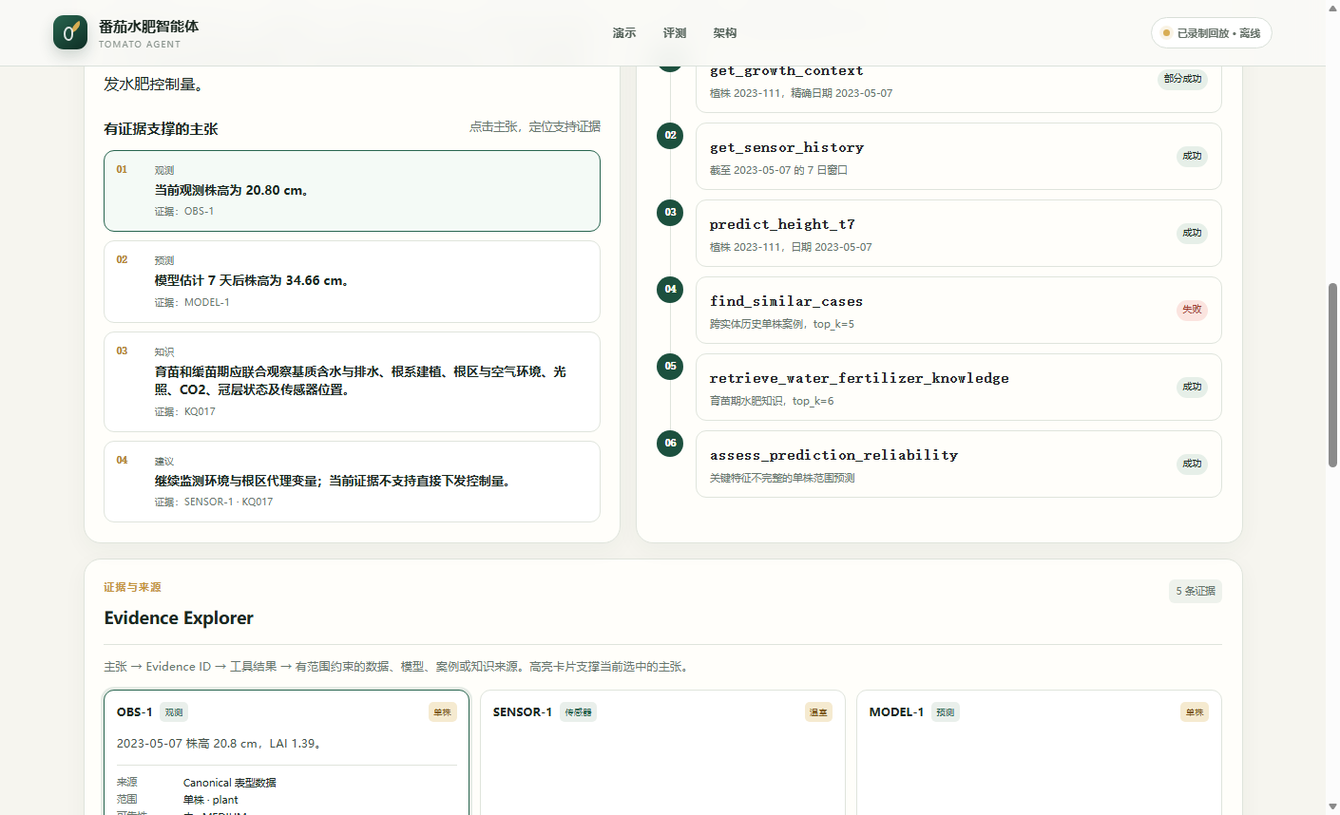
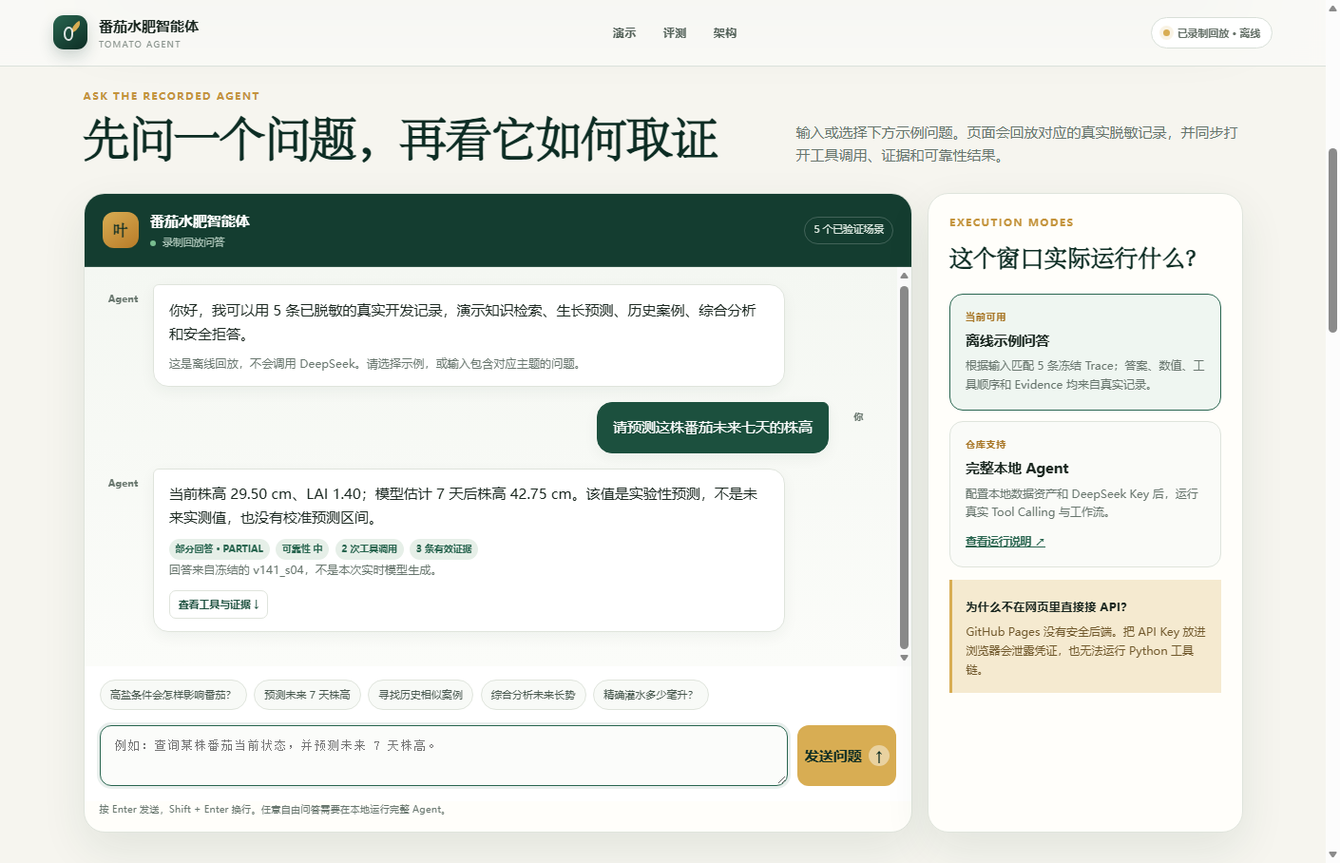
Add interactive recorded-replay Q&A workbench

diff --git a/demo/styles.css b/demo/styles.css
@@ -5,8 +5,10 @@
   --line:#dfe4dc;--shadow:0 18px 48px rgba(20,61,48,.09);--radius:18px
 }
 *{box-sizing:border-box}html{scroll-behavior:smooth}body{margin:0;background:var(--paper);color:var(--ink);font:15px/1.65 "Segoe UI Variable","HarmonyOS Sans SC","Microsoft YaHei",system-ui,sans-serif;-webkit-font-smoothing:antialiased}button,a,summary{font:inherit}button{color:inherit}.skip-link{position:fixed;left:1rem;top:-5rem;background:#fff;padding:.65rem 1rem;z-index:100}.skip-link:focus{top:1rem}
+.sr-only{position:absolute;width:1px;height:1px;padding:0;margin:-1px;overflow:hidden;clip:rect(0,0,0,0);white-space:nowrap;border:0}
 .site-header{height:70px;display:flex;align-items:center;justify-content:space-between;gap:2rem;padding:0 max(4vw,1.4rem);position:sticky;top:0;z-index:30;border-bottom:1px solid rgba(211,220,213,.82);background:rgba(250,250,246,.9);backdrop-filter:blur(16px)}.brand{display:flex;align-items:center;gap:.72rem;color:var(--ink);text-decoration:none}.brand>span:last-child{display:flex;flex-direction:column}.brand strong{font-size:.94rem}.brand small{color:#89938d;font-size:.57rem;letter-spacing:.13em}.brand-mark{position:relative;width:36px;height:36px;border-radius:11px;background:linear-gradient(145deg,var(--forest-700),var(--forest-950));box-shadow:0 7px 16px rgba(20,61,48,.2)}.brand-mark:before{content:"";position:absolute;width:12px;height:8px;left:18px;top:8px;border-radius:100% 0;background:var(--gold);transform:rotate(-28deg)}.brand-mark i{position:absolute;width:10px;height:15px;left:11px;top:12px;border:2px solid rgba(255,255,255,.85);border-radius:55% 45% 48% 52%}.top-nav{display:flex;gap:.25rem}.top-nav a{padding:.45rem .75rem;color:#536159;text-decoration:none;font-size:.78rem;font-weight:700;border-radius:8px}.top-nav a:hover{color:var(--forest-800);background:var(--sage-100)}.mode-badge{display:flex;align-items:center;gap:.5rem;padding:.42rem .72rem;border:1px solid #d8dfd8;border-radius:999px;background:#fff;color:#667269;font-size:.68rem;font-weight:800}.mode-dot{width:7px;height:7px;border-radius:50%;background:var(--gold);box-shadow:0 0 0 4px rgba(216,173,83,.15)}
 .hero{width:min(1220px,calc(100% - 2.5rem));min-height:500px;margin:2rem auto 0;padding:clamp(2.5rem,5vw,4.7rem);display:grid;grid-template-columns:minmax(0,1.2fr) minmax(330px,.8fr);gap:clamp(2rem,7vw,6rem);align-items:center;position:relative;overflow:hidden;border-radius:28px;background:linear-gradient(125deg,var(--forest-950),#194938 65%,#466b5b);color:#fff;box-shadow:0 28px 65px rgba(13,45,36,.17)}.hero:after{content:"";position:absolute;width:430px;height:430px;right:22%;bottom:-390px;border:1px solid rgba(255,255,255,.1);border-radius:50%;box-shadow:0 0 0 70px rgba(255,255,255,.025),0 0 0 140px rgba(255,255,255,.018)}.hero-copy,.hero-metrics{position:relative;z-index:1}.eyebrow,.micro-label{margin:0 0 .55rem;color:#c4943d;font-size:.66rem;font-weight:850;letter-spacing:.16em}.hero .eyebrow{color:var(--gold)}.hero h1{margin:.7rem 0 1.2rem;font-family:"STSong","Songti SC",Georgia,serif;font-size:clamp(3.4rem,6.4vw,6rem);font-weight:600;line-height:.98;letter-spacing:-.055em}.hero h1 em{color:var(--gold);font-style:normal}.hero-lead{max-width:690px;margin:0;color:#c9dad0;font-size:1.05rem;line-height:1.82}.hero-actions{display:flex;gap:.75rem;flex-wrap:wrap;margin-top:1.8rem}.button{display:inline-flex;align-items:center;justify-content:center;gap:.65rem;min-height:44px;padding:.62rem 1.05rem;border-radius:999px;text-decoration:none;font-size:.8rem;font-weight:800}.button.primary{background:var(--gold);color:var(--forest-950)}.button.secondary{border:1px solid rgba(255,255,255,.28);color:#eef5f0}.hero-disclosure{max-width:690px;margin:1.25rem 0 0;color:#9fb8aa;font-size:.78rem}.hero-metrics{display:grid;grid-template-columns:1fr 1fr;gap:.8rem}.hero-metrics article{min-height:126px;padding:1.25rem;border:1px solid rgba(255,255,255,.14);border-radius:16px;background:rgba(255,255,255,.08);backdrop-filter:blur(9px)}.hero-metrics span,.hero-metrics small{display:block;color:#abc2b5;font-size:.69rem}.hero-metrics strong{display:block;margin:.5rem 0 .25rem;font-size:1.75rem}.hero-metrics .status-text{font-size:.82rem;line-height:1.5;letter-spacing:.025em;margin-top:.9rem}
+.qa-section{width:min(1220px,calc(100% - 2.5rem));margin:6rem auto}.qa-workbench{display:grid;grid-template-columns:minmax(0,1.45fr) minmax(280px,.55fr);gap:1rem;align-items:stretch}.chat-shell,.mode-panel{border:1px solid var(--line);border-radius:22px;background:var(--surface);box-shadow:var(--shadow)}.chat-shell{overflow:hidden}.chat-header{display:flex;align-items:center;justify-content:space-between;gap:1rem;padding:1rem 1.2rem;border-bottom:1px solid rgba(255,255,255,.13);background:var(--forest-900);color:#fff}.chat-header>div{display:flex;align-items:center;gap:.75rem}.chat-header strong,.chat-header small{display:block}.chat-header small{margin-top:.08rem;color:#a9c2b5;font-size:.68rem}.chat-header small i{display:inline-block;width:6px;height:6px;margin-right:.25rem;border-radius:50%;background:#78bd8f}.agent-avatar{width:38px;height:38px;display:grid;place-items:center;border-radius:12px;background:linear-gradient(145deg,var(--gold),#b87b28);color:var(--forest-950);font:700 1rem/1 "STSong","Songti SC",serif}.chat-scope{padding:.3rem .58rem;border:1px solid rgba(255,255,255,.2);border-radius:999px;color:#d9e5dd;font-size:.67rem}.chat-messages{min-height:255px;max-height:420px;overflow:auto;padding:1.25rem;background:linear-gradient(180deg,#f4f7f2,#fbfcf9)}.message{display:flex;gap:.65rem;max-width:88%;margin-bottom:1rem}.message.user-message{margin-left:auto;flex-direction:row-reverse}.message-role{flex:0 0 auto;width:42px;padding-top:.45rem;color:var(--muted);font-size:.64rem;font-weight:800;text-align:center}.message>div{padding:.85rem 1rem;border:1px solid var(--line);border-radius:6px 16px 16px 16px;background:#fff;box-shadow:0 5px 16px rgba(20,61,48,.05)}.message.user-message>div{border-color:var(--forest-800);border-radius:16px 6px 16px 16px;background:var(--forest-800);color:#fff}.message p{margin:0}.message p+p{margin-top:.55rem}.message-note{color:var(--muted);font-size:.76rem}.message-result-meta{display:flex;gap:.4rem;flex-wrap:wrap;margin-top:.65rem}.message-result-meta span{padding:.18rem .42rem;border-radius:999px;background:var(--sage-100);color:var(--forest-700);font-size:.62rem;font-weight:750}.message-actions{display:flex;gap:.5rem;margin-top:.7rem}.message-actions button{padding:.32rem .55rem;border:1px solid var(--line);border-radius:7px;background:#fff;color:var(--forest-800);font-size:.68rem;font-weight:750;cursor:pointer}.prompt-chips{display:flex;gap:.45rem;overflow:auto;padding:.85rem 1rem .25rem;background:#fff}.prompt-chips button{flex:0 0 auto;padding:.38rem .65rem;border:1px solid var(--line);border-radius:999px;background:#f8faf7;color:#47584e;font-size:.69rem;cursor:pointer}.prompt-chips button:hover{border-color:var(--forest-700);color:var(--forest-800)}.question-form{display:grid;grid-template-columns:1fr auto;gap:.65rem;padding:.75rem 1rem 1rem;background:#fff}.question-form textarea{width:100%;min-height:64px;resize:vertical;padding:.78rem .9rem;border:1px solid #cfd8d1;border-radius:12px;background:#fbfcfa;color:var(--ink);outline:none}.question-form textarea:focus{border-color:var(--forest-700);box-shadow:0 0 0 3px rgba(40,101,79,.1)}.question-form button{align-self:stretch;min-width:104px;display:flex;align-items:center;justify-content:center;gap:.45rem;border:0;border-radius:12px;background:var(--gold);color:var(--forest-950);font-weight:850;cursor:pointer}.question-form button b{width:22px;height:22px;display:grid;place-items:center;border-radius:50%;background:rgba(255,255,255,.45)}.question-hint{margin:0;padding:0 1rem .9rem;color:var(--muted);font-size:.65rem}.mode-panel{padding:1.35rem}.mode-panel h3{margin:.2rem 0 1rem;font-family:"STSong","Songti SC",Georgia,serif;font-size:1.55rem;color:var(--forest-950)}.mode-card{margin-top:.7rem;padding:1rem;border:1px solid var(--line);border-radius:14px;background:#fafbf8}.mode-card.active{border-color:var(--forest-700);background:#eff6f1}.mode-card span,.mode-card strong{display:block}.mode-card span{color:#a87727;font-size:.62rem;font-weight:850;letter-spacing:.08em}.mode-card strong{margin:.2rem 0;font-size:.92rem}.mode-card p,.mode-warning p{margin:.35rem 0 0;color:var(--muted);font-size:.75rem}.mode-card a{display:inline-block;margin-top:.65rem;color:var(--forest-700);font-size:.72rem;font-weight:800}.mode-warning{margin-top:.8rem;padding:.9rem;border-left:3px solid var(--gold);background:var(--gold-soft)}.mode-warning strong{font-size:.78rem}.mode-warning p{color:#70582b}
 .section-shell,.architecture-section,.benchmark-section{width:min(1220px,calc(100% - 2.5rem));margin:6rem auto}.section-heading{display:flex;align-items:end;justify-content:space-between;gap:3rem;margin-bottom:1.7rem}.section-heading h2{margin:0;font-family:"STSong","Songti SC",Georgia,serif;font-size:clamp(2rem,3.5vw,3.15rem);font-weight:600;line-height:1.15;letter-spacing:-.035em;color:var(--forest-950)}.section-heading>p{max-width:470px;margin:0;color:var(--muted)}
 .scenario-tabs{display:grid;grid-template-columns:repeat(5,1fr);gap:.65rem;margin-bottom:1rem}.scenario-tabs button{appearance:none;min-height:98px;padding:.9rem;text-align:left;display:flex;gap:.65rem;border:1px solid var(--line);border-radius:14px;background:var(--surface);cursor:pointer;transition:.2s}.scenario-tabs button:hover{transform:translateY(-2px);box-shadow:0 10px 26px rgba(20,61,48,.08)}.scenario-tabs button[aria-selected="true"]{border-color:var(--forest-700);box-shadow:inset 0 -3px var(--forest-700);background:#fbfdf9}.scenario-tabs strong,.scenario-tabs small{display:block}.scenario-tabs strong{font-size:.84rem;line-height:1.38}.scenario-tabs small{margin-top:.3rem;color:var(--muted);font-size:.7rem;line-height:1.35}.scenario-number{color:#b48836;font:800 .7rem/1 ui-monospace,monospace}.scenario-console{margin-bottom:1rem}.query-panel{display:flex;align-items:center;justify-content:space-between;gap:2rem;padding:1.25rem 1.4rem;border-radius:var(--radius) var(--radius) 0 0;background:var(--forest-900);color:#fff}.query-panel .micro-label{color:var(--gold)}.query-text{max-width:950px;margin:0;font-size:1.02rem}.icon-button{padding:.48rem .72rem;border:1px solid var(--line);border-radius:8px;background:#fff;color:var(--forest-800);font-size:.72rem;font-weight:750;cursor:pointer;white-space:nowrap}.icon-button.inverse{border-color:rgba(255,255,255,.25);background:transparent;color:#fff}.result-meta{display:grid;grid-template-columns:repeat(4,1fr);border:1px solid var(--line);border-top:0;border-radius:0 0 var(--radius) var(--radius);background:var(--surface)}.result-meta>div{padding:.9rem 1.1rem;border-right:1px solid var(--line)}.result-meta>div:last-child{border:0}.result-meta span{display:block;color:var(--muted);font-size:.65rem;letter-spacing:.06em}.result-meta strong{display:inline-block;margin-top:.28rem;font-size:.78rem}.status-chip,.reliability-chip{padding:.2rem .5rem;border-radius:999px;background:var(--sage-100);color:var(--forest-700)}.status-chip[data-status="PARTIAL"],.status-chip[data-status="ABSTAIN"],.reliability-chip[data-level="LOW"],.reliability-chip[data-level="UNKNOWN"]{background:var(--gold-soft);color:#855f1f}
 .workspace-grid{display:grid;grid-template-columns:.94fr 1.06fr;gap:1rem}.panel{margin-bottom:1rem;padding:1.3rem;border:1px solid var(--line);border-radius:var(--radius);background:var(--surface);box-shadow:0 7px 24px rgba(20,61,48,.045)}.panel-heading{display:flex;align-items:start;justify-content:space-between;gap:1rem;padding-bottom:.8rem;margin-bottom:.95rem;border-bottom:1px solid var(--line)}.panel-heading h3{margin:0;font-size:1.1rem}.meta-tag{padding:.24rem .46rem;border-radius:6px;background:#eef2ec;color:var(--muted);font-size:.66rem}.answer-summary{margin:0 0 1.25rem;font-size:1rem;line-height:1.8}.subheading{display:flex;justify-content:space-between;gap:1rem;margin-bottom:.6rem;font-weight:800}.subheading small{color:var(--muted);font-weight:500}.claim-list{display:grid;gap:.55rem}.claim-card{width:100%;display:grid;grid-template-columns:30px 1fr;gap:.65rem;padding:.75rem;text-align:left;border:1px solid var(--line);border-radius:11px;background:#fff;cursor:pointer}.claim-card:hover,.claim-card.selected{border-color:var(--forest-700);background:#f4faf6}.claim-index{color:#b48836;font:800 .68rem/1.4 ui-monospace,monospace}.claim-card small,.claim-card em{display:block;color:var(--muted);font-size:.65rem;font-style:normal}.claim-card strong{display:block;margin:.12rem 0 .3rem;font-size:.82rem;line-height:1.5}.panel-note{margin:-.2rem 0 .9rem;color:var(--muted);font-size:.77rem}.timeline{list-style:none;padding:0;margin:0}.timeline-item{display:grid;grid-template-columns:30px 1fr;gap:.7rem;position:relative;padding-bottom:.65rem}.timeline-item:not(:last-child):before{content:"";position:absolute;left:14px;top:28px;bottom:-1px;width:1px;background:var(--line)}.timeline-index{width:28px;height:28px;display:grid;place-items:center;z-index:1;border-radius:50%;background:var(--forest-800);color:#fff;font:800 .68rem/1 ui-monospace,monospace}.timeline details{overflow:hidden;border:1px solid var(--line);border-radius:11px}.timeline summary{list-style:none;display:flex;align-items:center;justify-content:space-between;gap:1rem;padding:.7rem .85rem;cursor:pointer}.timeline summary::-webkit-details-marker,.evidence-card summary::-webkit-details-marker{display:none}.timeline summary strong,.timeline summary small{display:block}.timeline summary small{margin-top:.16rem;color:var(--muted);font-size:.68rem}.tool-status{padding:.18rem .42rem;border-radius:999px;background:var(--sage-100);font-size:.62rem}.timeline-item[data-status="error"] .tool-status{background:#fbe4df;color:#9d392b}.tool-detail-grid{display:grid;grid-template-columns:repeat(2,1fr);gap:1px;border-top:1px solid var(--line);background:var(--line)}.tool-detail-grid>div{padding:.62rem .75rem;background:#fafbf8}.tool-detail-grid span,.tool-detail-grid strong{display:block}.tool-detail-grid span{color:var(--muted);font-size:.6rem}.tool-detail-grid strong{margin-top:.15rem;font-size:.68rem;word-break:break-word}.timeline-empty{display:flex;gap:.7rem}.timeline-empty>span{width:28px;height:28px;display:grid;place-items:center;border-radius:50%;background:var(--gold-soft);color:#855f1f;font-weight:800}.timeline-empty p{margin:.15rem 0;color:var(--muted)}
@@ -14,6 +16,7 @@
 .benchmark-section{padding:3rem;border:1px solid var(--line);border-radius:28px;background:var(--surface);box-shadow:var(--shadow)}.metric-grid{display:grid;grid-template-columns:repeat(4,1fr);gap:.7rem}.metric-grid article{padding:1rem;border-top:2px solid var(--gold);background:#fafbf8}.metric-grid span{display:block;color:var(--muted);font-size:.7rem}.metric-grid strong{display:block;margin-top:.25rem;color:var(--forest-900);font-size:1.75rem}.benchmark-detail{display:grid;grid-template-columns:repeat(4,1fr);margin-top:1rem;border:1px solid var(--line);border-radius:14px;overflow:hidden}.benchmark-detail>div{padding:1rem;border-right:1px solid var(--line)}.benchmark-detail>div:last-child{border:0}.benchmark-detail span,.benchmark-detail small{display:block;color:var(--muted);font-size:.68rem}.benchmark-detail strong{display:block;margin:.25rem 0;font-size:.9rem}.benchmark-warning{margin:1rem 0 0;padding:.85rem 1rem;border-left:3px solid var(--gold);background:var(--gold-soft);color:#70582b}
 .architecture-flow{display:flex;align-items:stretch;gap:.55rem}.architecture-flow i{align-self:center;color:#b48836;font-style:normal}.architecture-flow article{flex:1;padding:1rem;border:1px solid var(--line);border-radius:12px;background:var(--surface)}.architecture-flow article>span{display:block;color:#b48836;font:800 .65rem/1 ui-monospace,monospace}.architecture-flow strong,.architecture-flow small{display:block}.architecture-flow strong{margin:.45rem 0 .18rem}.architecture-flow small{color:var(--muted);font-size:.67rem}.architecture-flow .strong{background:var(--forest-900);color:#fff;border-color:var(--forest-900)}.architecture-flow .strong small{color:#b8cec1}.architecture-notes{display:grid;grid-template-columns:repeat(3,1fr);gap:1rem;margin-top:1.2rem}.architecture-notes article{padding-top:.8rem;border-top:2px solid var(--forest-700)}.architecture-notes p{margin:.4rem 0 0;color:var(--muted);font-size:.79rem}.site-footer{display:flex;justify-content:space-between;gap:2rem;padding:1.5rem max(4vw,1.4rem);border-top:1px solid var(--line);background:#ebece6;color:var(--muted);font-size:.74rem}.site-footer div{display:flex;gap:.55rem}.site-footer strong{color:var(--forest-900)}.toast{position:fixed;right:1rem;bottom:1rem;z-index:50;padding:.6rem .85rem;border-radius:8px;background:var(--forest-900);color:#fff;box-shadow:var(--shadow);opacity:0;transform:translateY(8px);pointer-events:none;transition:.2s}.toast.visible{opacity:1;transform:none}.fatal-error{width:min(680px,90vw);margin:5rem auto;padding:1.4rem;border-left:4px solid var(--tomato);background:#fff;box-shadow:var(--shadow)}button:focus-visible,a:focus-visible,summary:focus-visible{outline:3px solid rgba(40,101,79,.35);outline-offset:3px}
 .toast.show{opacity:1;transform:none}
-@media(max-width:980px){.hero{grid-template-columns:1fr}.hero-metrics{max-width:720px}.scenario-tabs{grid-template-columns:repeat(2,1fr)}.workspace-grid{grid-template-columns:1fr}.evidence-grid{grid-template-columns:repeat(2,1fr)}.architecture-flow{display:grid;grid-template-columns:1fr}.architecture-flow i{transform:rotate(90deg);justify-self:center}.benchmark-detail{grid-template-columns:repeat(2,1fr)}.benchmark-detail>div:nth-child(2){border-right:0}.benchmark-detail>div:nth-child(-n+2){border-bottom:1px solid var(--line)}}
-@media(max-width:640px){html,body{max-width:100%;overflow-x:hidden}.site-header{height:62px;padding:0 .8rem}.top-nav{display:none}.brand>span:last-child small{display:none}.mode-badge{font-size:.58rem;padding:.35rem .5rem}.hero{width:calc(100% - 1rem);min-height:auto;margin-top:.5rem;padding:3rem 1.25rem;border-radius:20px}.hero h1{font-size:3.25rem}.hero-lead{font-size:.96rem}.hero-metrics{grid-template-columns:1fr 1fr}.hero-metrics article{min-height:105px;padding:.9rem}.section-shell,.architecture-section,.benchmark-section{width:calc(100% - 1rem);margin:4rem auto}.section-heading{display:block}.section-heading>p{margin-top:.8rem}.scenario-tabs{display:flex;overflow:auto;scroll-snap-type:x mandatory;padding-bottom:.35rem}.scenario-tabs button{min-width:235px;scroll-snap-align:start}.query-panel{display:block}.query-panel .icon-button{margin-top:.8rem}.result-meta{grid-template-columns:repeat(2,1fr)}.result-meta>div:nth-child(2){border-right:0}.result-meta>div:nth-child(-n+2){border-bottom:1px solid var(--line)}.panel{padding:1rem}.subheading{display:block}.subheading small{display:block}.tool-detail-grid,.evidence-grid{grid-template-columns:1fr}.limitation-list{columns:1}.benchmark-section{padding:1.25rem}.metric-grid{grid-template-columns:repeat(2,1fr)}.benchmark-detail{grid-template-columns:1fr}.benchmark-detail>div{border-right:0;border-bottom:1px solid var(--line)}.benchmark-detail>div:last-child{border-bottom:0}.architecture-notes{grid-template-columns:1fr}.site-footer{display:block}.site-footer div{margin:.35rem 0;flex-wrap:wrap}}
+.qa-section,.section-shell{scroll-margin-top:90px}
+@media(max-width:980px){.hero{grid-template-columns:1fr}.hero-metrics{max-width:720px}.qa-workbench{grid-template-columns:1fr}.scenario-tabs{grid-template-columns:repeat(2,1fr)}.workspace-grid{grid-template-columns:1fr}.evidence-grid{grid-template-columns:repeat(2,1fr)}.architecture-flow{display:grid;grid-template-columns:1fr}.architecture-flow i{transform:rotate(90deg);justify-self:center}.benchmark-detail{grid-template-columns:repeat(2,1fr)}.benchmark-detail>div:nth-child(2){border-right:0}.benchmark-detail>div:nth-child(-n+2){border-bottom:1px solid var(--line)}}
+@media(max-width:640px){html,body{max-width:100%;overflow-x:hidden}.site-header{height:62px;padding:0 .8rem}.top-nav{display:none}.brand>span:last-child small{display:none}.mode-badge{font-size:.58rem;padding:.35rem .5rem}.hero{width:calc(100% - 1rem);min-height:auto;margin-top:.5rem;padding:3rem 1.25rem;border-radius:20px}.hero h1{font-size:3.25rem}.hero-lead{font-size:.96rem}.hero-metrics{grid-template-columns:1fr 1fr}.hero-metrics article{min-height:105px;padding:.9rem}.qa-section,.section-shell,.architecture-section,.benchmark-section{width:calc(100% - 1rem);margin:4rem auto}.section-heading{display:block}.section-heading>p{margin-top:.8rem}.chat-header{padding:.85rem}.chat-scope{display:none}.chat-messages{min-height:300px;padding:.85rem}.message{max-width:96%}.message-role{width:34px}.prompt-chips{padding-left:.75rem}.question-form{grid-template-columns:1fr;padding:.65rem .75rem}.question-form button{min-height:48px}.scenario-tabs{display:flex;overflow:auto;scroll-snap-type:x mandatory;padding-bottom:.35rem}.scenario-tabs button{min-width:235px;scroll-snap-align:start}.query-panel{display:block}.query-panel .icon-button{margin-top:.8rem}.result-meta{grid-template-columns:repeat(2,1fr)}.result-meta>div:nth-child(2){border-right:0}.result-meta>div:nth-child(-n+2){border-bottom:1px solid var(--line)}.panel{padding:1rem}.subheading{display:block}.subheading small{display:block}.tool-detail-grid,.evidence-grid{grid-template-columns:1fr}.limitation-list{columns:1}.benchmark-section{padding:1.25rem}.metric-grid{grid-template-columns:repeat(2,1fr)}.benchmark-detail{grid-template-columns:1fr}.benchmark-detail>div{border-right:0;border-bottom:1px solid var(--line)}.benchmark-detail>div:last-child{border-bottom:0}.architecture-notes{grid-template-columns:1fr}.site-footer{display:block}.site-footer div{margin:.35rem 0;flex-wrap:wrap}}
 @media(prefers-reduced-motion:reduce){html{scroll-behavior:auto}*,*:before,*:after{transition:none!important}}

diff --git a/demo/app.js b/demo/app.js
@@ -50,6 +50,15 @@ const scenarioDescriptions = {
 let scenarioIndex = null;
 let currentScenario = null;
 let selectedClaim = null;
+const scenarioCache = new Map();
+
+const promptExamples = [
+  { id: "knowledge_salt", label: "高盐条件会怎样影响番茄？" },
+  { id: "growth_prediction", label: "预测未来 7 天株高" },
+  { id: "historical_memory", label: "寻找历史相似案例" },
+  { id: "comprehensive", label: "综合分析未来长势" },
+  { id: "safety_refusal", label: "精确灌水多少毫升？" }
+];
 
 function localLabel(group, value) {
   return labels[group]?.[value] ?? value ?? "未记录";
@@ -61,6 +70,81 @@ function showToast(message) {
   toast.classList.add("show");
   window.clearTimeout(showToast.timer);
   showToast.timer = window.setTimeout(() => toast.classList.remove("show"), 1800);
+}
+
+function appendChatMessage(role, html) {
+  const root = $("#chat-messages");
+  const message = document.createElement("article");
+  message.className = `message ${role === "user" ? "user-message" : "assistant-message"}`;
+  message.innerHTML = `<span class="message-role">${role === "user" ? "你" : "Agent"}</span><div>${html}</div>`;
+  root.append(message);
+  root.scrollTo({ top: root.scrollHeight, behavior: "smooth" });
+  return message;
+}
+
+function matchScenario(query) {
+  const text = query.replaceAll(/\s+/g, "").toLowerCase();
+  if (/(毫升|精确灌水|精确灌溉|灌水多少|灌溉多少)/.test(text)) return "safety_refusal";
+  if (/(综合|当前状态.*环境|环境.*历史|未来长势)/.test(text)) return "comprehensive";
+  if (/(历史|相似案例|案例记忆|后来怎么样)/.test(text)) return "historical_memory";
+  if (/(高盐|盐害|盐胁迫|盐条件)/.test(text)) return "knowledge_salt";
+  if (/(预测|七天|7天|t\+7|未来.*株高)/.test(text)) return "growth_prediction";
+  return null;
+}
+
+function renderPromptChips() {
+  const root = $("#example-queries");
+  root.innerHTML = "";
+  promptExamples.forEach((prompt) => {
+    const button = document.createElement("button");
+    button.type = "button";
+    button.textContent = prompt.label;
+    button.addEventListener("click", async () => {
+      const scenario = await getScenario(prompt.id);
+      $("#question-input").value = scenario.query;
+      await runRecordedQuestion(scenario.query, prompt.id);
+    });
+    root.append(button);
+  });
+}
+
+async function runRecordedQuestion(query, forcedScenarioId = null) {
+  const cleaned = query.trim();
+  if (!cleaned) return;
+  appendChatMessage("user", `<p>${esc(cleaned)}</p>`);
+  $("#question-input").value = "";
+
+  const scenarioId = forcedScenarioId || matchScenario(cleaned);
+  if (!scenarioId) {
+    appendChatMessage("assistant", `
+      <p>这个问题不在公开页面携带的 5 条录制场景中，因此我不能在静态网页里生成一个看似实时、实际无依据的回答。</p>
+      <p class="message-note">请选择一个示例问题；如需任意自由问答，请按仓库说明在本地启动完整 Agent。</p>
+      <div class="message-result-meta"><span>未调用模型</span><span>未生成答案</span><span>安全边界</span></div>`);
+    return;
+  }
+
+  const submit = $("#question-submit");
+  submit.disabled = true;
+  try {
+    const scenario = await loadScenario(scenarioId);
+    const toolCount = scenario.tool_calls.length;
+    const evidenceCount = scenario.evidence.length;
+    const response = appendChatMessage("assistant", `
+      <p>${esc(scenario.outcome.summary)}</p>
+      <div class="message-result-meta">
+        <span>${esc(localLabel("status", scenario.outcome.status))} · ${esc(scenario.outcome.status)}</span>
+        <span>可靠性 ${esc(localLabel("reliability", scenario.outcome.reliability))}</span>
+        <span>${toolCount} 次工具调用</span>
+        <span>${evidenceCount} 条有效证据</span>
+      </div>
+      <p class="message-note">回答来自冻结的 ${esc(scenario.source.case_id)}，不是本次实时模型生成。</p>
+      <div class="message-actions"><button type="button">查看工具与证据 ↓</button></div>`);
+    response.querySelector(".message-actions button").addEventListener("click", () => {
+      $("#scenario-explorer").scrollIntoView({ behavior: "smooth", block: "start" });
+    });
+  } finally {
+    submit.disabled = false;
+  }
 }
 
 async function copyText(text, successMessage) {
@@ -246,12 +330,21 @@ function renderScenario(scenario) {
   renderLimitations(scenario.limitations || []);
 }
 
-async function loadScenario(id) {
+async function getScenario(id) {
+  if (scenarioCache.has(id)) return scenarioCache.get(id);
   const entry = scenarioIndex.scenarios.find((item) => item.id === id);
   if (!entry) throw new Error(`未知场景：${id}`);
   const response = await fetch(`fixtures/${entry.file}`);
   if (!response.ok) throw new Error(`无法加载场景：${entry.file}`);
-  renderScenario(await response.json());
+  const scenario = await response.json();
+  scenarioCache.set(id, scenario);
+  return scenario;
+}
+
+async function loadScenario(id) {
+  const scenario = await getScenario(id);
+  renderScenario(scenario);
+  return scenario;
 }
 
 async function init() {
@@ -259,9 +352,20 @@ async function init() {
   if (!response.ok) throw new Error("无法加载演示场景索引");
   scenarioIndex = await response.json();
   await loadScenario("comprehensive");
+  renderPromptChips();
 
   $("#copy-query").addEventListener("click", () => copyText(currentScenario.query, "问题已复制"));
   $("#copy-trace").addEventListener("click", () => copyText(traceSummary(currentScenario), "脱敏 Trace 已复制"));
+  $("#question-form").addEventListener("submit", async (event) => {
+    event.preventDefault();
+    await runRecordedQuestion($("#question-input").value);
+  });
+  $("#question-input").addEventListener("keydown", (event) => {
+    if (event.key === "Enter" && !event.shiftKey) {
+      event.preventDefault();
+      $("#question-form").requestSubmit();
+    }
+  });
 }
 
 init().catch((error) => {

diff --git a/demo/index.html b/demo/index.html
@@ -29,7 +29,7 @@
         <h1 id="hero-title">先取证，<br><em>再回答。</em></h1>
         <p class="hero-lead">一个面向番茄生长分析的证据驱动智能体：由大模型选择工具，由专业工具计算事实，再用证据、范围与可靠性约束最终回答。</p>
         <div class="hero-actions">
-          <a class="button primary" href="#scenario-explorer">查看真实 Trace <span>↘</span></a>
+          <a class="button primary" href="#qa-console">开始问答演示 <span>↘</span></a>
           <a class="button secondary" href="#benchmark">查看评测结果</a>
         </div>
         <p class="hero-disclosure"><strong>这不是实时推理。</strong> 页面回放 5 条已脱敏、已冻结的 V1.4.4 开发记录；不上传数据，也不需要 API Key。</p>
@@ -39,6 +39,41 @@
         <article><span>受控工作流</span><strong>4</strong><small>有界路由与执行</small></article>
         <article><span>检索系统</span><strong>2</strong><small>知识 RAG + 历史记忆</small></article>
         <article><span>回答边界</span><strong class="status-text">FULL / PARTIAL / ABSTAIN</strong><small>证据不足时保留或拒答</small></article>
+      </div>
+    </section>
+
+    <section id="qa-console" class="qa-section" aria-labelledby="qa-title">
+      <div class="section-heading">
+        <div><p class="eyebrow">ASK THE RECORDED AGENT</p><h2 id="qa-title">先问一个问题，再看它如何取证</h2></div>
+        <p>输入或选择下方示例问题。页面会回放对应的真实脱敏记录，并同步打开工具调用、证据和可靠性结果。</p>
+      </div>
+      <div class="qa-workbench">
+        <section class="chat-shell" aria-label="番茄智能体离线问答窗口">
+          <header class="chat-header">
+            <div><span class="agent-avatar" aria-hidden="true">叶</span><div><strong>番茄水肥智能体</strong><small><i></i> 录制回放问答</small></div></div>
+            <span class="chat-scope">5 个已验证场景</span>
+          </header>
+          <div id="chat-messages" class="chat-messages" aria-live="polite">
+            <article class="message assistant-message">
+              <span class="message-role">Agent</span>
+              <div><p>你好，我可以用 5 条已脱敏的真实开发记录，演示知识检索、生长预测、历史案例、综合分析和安全拒答。</p><p class="message-note">这是离线回放，不会调用 DeepSeek。请选择示例，或输入包含对应主题的问题。</p></div>
+            </article>
+          </div>
+          <div id="example-queries" class="prompt-chips" aria-label="示例问题"></div>
+          <form id="question-form" class="question-form">
+            <label class="sr-only" for="question-input">输入问题</label>
+            <textarea id="question-input" rows="2" placeholder="例如：查询某株番茄当前状态，并预测未来 7 天株高。" required></textarea>
+            <button id="question-submit" type="submit"><span>发送问题</span><b aria-hidden="true">↑</b></button>
+          </form>
+          <p class="question-hint">按 Enter 发送，Shift + Enter 换行。任意自由问答需要在本地运行完整 Agent。</p>
+        </section>
+        <aside class="mode-panel">
+          <p class="micro-label">EXECUTION MODES</p>
+          <h3>这个窗口实际运行什么？</h3>
+          <article class="mode-card active"><span>当前可用</span><strong>离线示例问答</strong><p>根据输入匹配 5 条冻结 Trace；答案、数值、工具顺序和 Evidence 均来自真实记录。</p></article>
+          <article class="mode-card"><span>仓库支持</span><strong>完整本地 Agent</strong><p>配置本地数据资产和 DeepSeek Key 后，运行真实 Tool Calling 与工作流。</p><a href="https://github.com/Zhenwei-Chang/tomato-agent#quick-start" target="_blank" rel="noreferrer">查看运行说明 ↗</a></article>
+          <div class="mode-warning"><strong>为什么不在网页里直接接 API？</strong><p>GitHub Pages 没有安全后端。把 API Key 放进浏览器会泄露凭证，也无法运行 Python 工具链。</p></div>
+        </aside>
       </div>
     </section>
 

diff --git a/tests/unit/test_portfolio_demo.py b/tests/unit/test_portfolio_demo.py
@@ -106,9 +106,12 @@ def test_static_demo_exposes_portfolio_interactions_and_truthfulness_labels():
     for required_id in (
         'id="scenario-tabs"', 'id="copy-query"', 'id="copy-trace"',
         'id="tools"', 'id="evidence"', 'id="benchmark"',
+        'id="question-form"', 'id="question-input"', 'id="chat-messages"',
     ):
         assert required_id in html
     assert "highlightEvidence" in javascript
+    assert "runRecordedQuestion" in javascript
+    assert "matchScenario" in javascript
     assert "dispatch_source" in javascript
     assert "NOT_RECORDED" in javascript
 

diff --git a/README_EN.md b/README_EN.md
@@ -40,7 +40,7 @@ See the [full architecture](docs/architecture/SYSTEM_ARCHITECTURE.md), [function
 
 ## Quick Start — Offline Replay
 
-No-install web demo: [https://zhenwei-chang.github.io/tomato-agent/](https://zhenwei-chang.github.io/tomato-agent/). It is explicitly labelled Recorded Replay, makes no DeepSeek call, and does not pretend to support arbitrary live prompts.
+No-install web demo: [https://zhenwei-chang.github.io/tomato-agent/](https://zhenwei-chang.github.io/tomato-agent/). Its Chinese Q&A workbench accepts or suggests five verified example prompts and replays the matching tools, evidence and reliability result. It is explicitly labelled Recorded Replay, makes no DeepSeek call, and rejects topics outside the fixture set instead of pretending to support arbitrary live prompts.
 
 Python 3.11+ is sufficient. No API key, model weight, PyTorch install, or 26 GB dataset is required.
 

diff --git a/demo/README.md b/demo/README.md
@@ -2,7 +2,7 @@
 
 This directory contains a zero-dependency viewer for **recorded, sanitized** Agent traces.
 
-The interface provides scenario switching, expandable tool-call details, real recorded dispatch-source and latency fields, Claim-to-Evidence highlighting, reliability/status boundaries, a benchmark panel and a copyable sanitized trace summary.
+The interface provides a Chinese Q&A workbench for the five verified example prompts, scenario switching, expandable tool-call details, real recorded dispatch-source and latency fields, Claim-to-Evidence highlighting, reliability/status boundaries, a benchmark panel and a copyable sanitized trace summary. Questions outside the five replay topics are rejected explicitly instead of being presented as live inference.
 
 ```powershell
 python demo/app.py

diff --git a/README.md b/README.md
@@ -48,7 +48,7 @@ flowchart TB
 
 ## 30 秒离线体验
 
-无需安装的在线展示：[https://zhenwei-chang.github.io/tomato-agent/](https://zhenwei-chang.github.io/tomato-agent/)。这是明确标注的 Recorded Replay，不会调用 DeepSeek，也不接受任意自由文本推理。
+无需安装的在线展示：[https://zhenwei-chang.github.io/tomato-agent/](https://zhenwei-chang.github.io/tomato-agent/)。页面提供中文问答窗口，可输入或选择 5 个已验证示例，并回放对应的工具调用、证据与可靠性结果。它明确标注为 Recorded Replay，不会调用 DeepSeek；示例范围之外的问题会说明限制，不会伪装成任意自由文本推理。
 
 要求 Python 3.11+；不需要 API Key、PyTorch、模型权重或 26 GB 原始数据。
 
